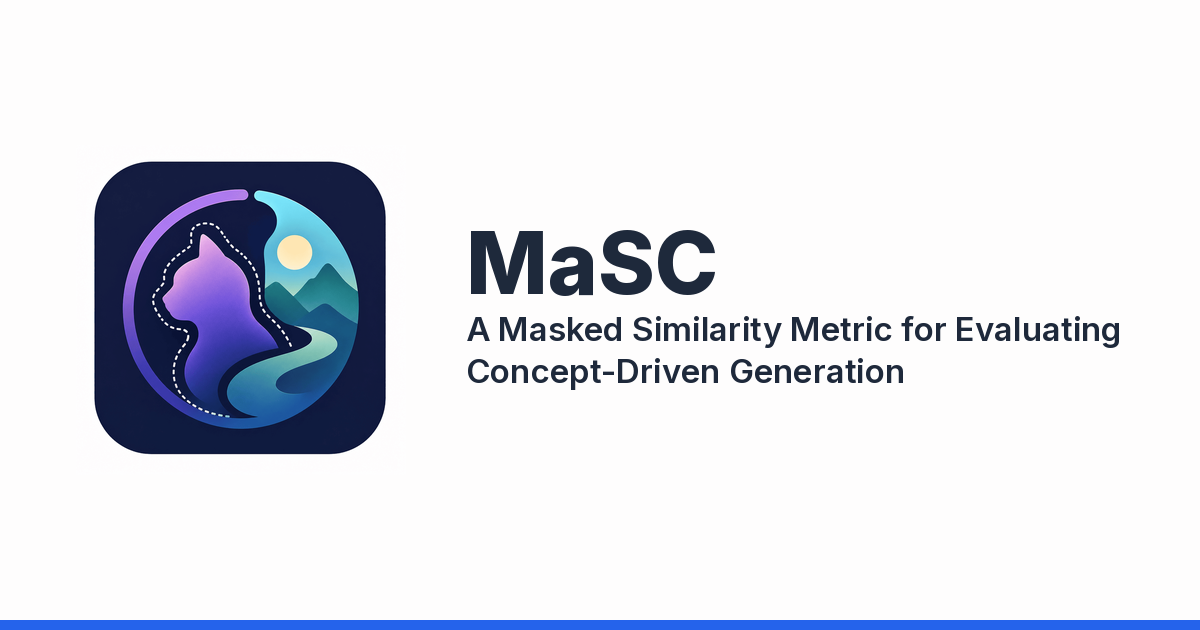
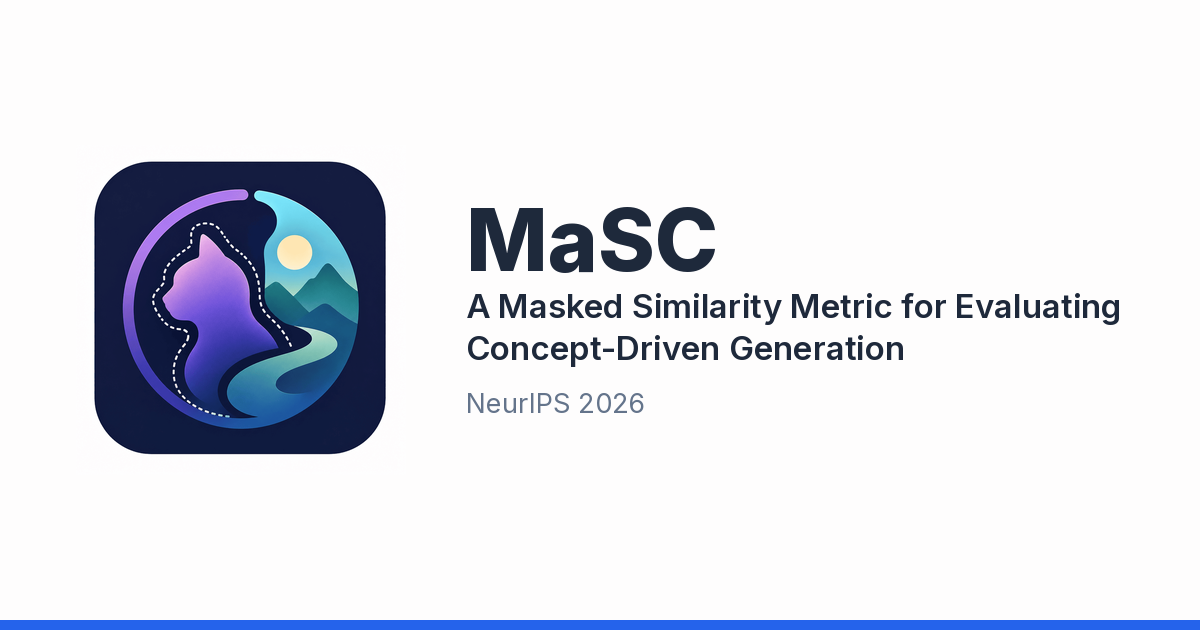
Mark the NeurIPS 2026 acceptance on the page and social card
Venue line under the affiliations, citation_conference_title for Scholar,
a "To appear at NeurIPS 2026" note on the arXiv BibTeX, and the card
regenerated with the venue as its third line.

Changed region(s): [[0.37, 0.3317, 0.9558, 0.6635]]

diff --git a/index.html b/index.html
@@ -44,6 +44,7 @@
   <meta name="citation_author" content="Michels, Dominik L.">
   <meta name="citation_author" content="Pirk, Sören">
   <meta name="citation_author" content="Palubicki, Wojtek">
+  <meta name="citation_conference_title" content="Advances in Neural Information Processing Systems (NeurIPS)">
   <meta name="citation_publication_date" content="2026">
   <meta name="citation_arxiv_id" content="2605.22469">
   <meta name="citation_pdf_url" content="https://arxiv.org/pdf/2605.22469.pdf">
@@ -270,6 +271,10 @@
             <span class="author-block"><sup>1</sup>Adam Mickiewicz University, <sup>2</sup>Kiel University, <sup>3</sup>ArtiCollect, <sup>4</sup>KAUST</span>
           </div>
 
+          <div class="is-size-5 publication-authors" style="margin-top: 0.5rem;">
+            <span class="author-block">NeurIPS 2026</span>
+          </div>
+
                   <div class="column has-text-centered">
                     <div class="publication-links">
                       <span class="link-block">
@@ -476,7 +481,8 @@ End paper poster -->
   eprint        = {2605.22469},
   archivePrefix = {arXiv},
   primaryClass  = {cs.CV},
-  url           = {https://arxiv.org/abs/2605.22469}
+  url           = {https://arxiv.org/abs/2605.22469},
+  note          = {To appear at NeurIPS 2026}
 }</code></pre>
   </div>
 </section>
